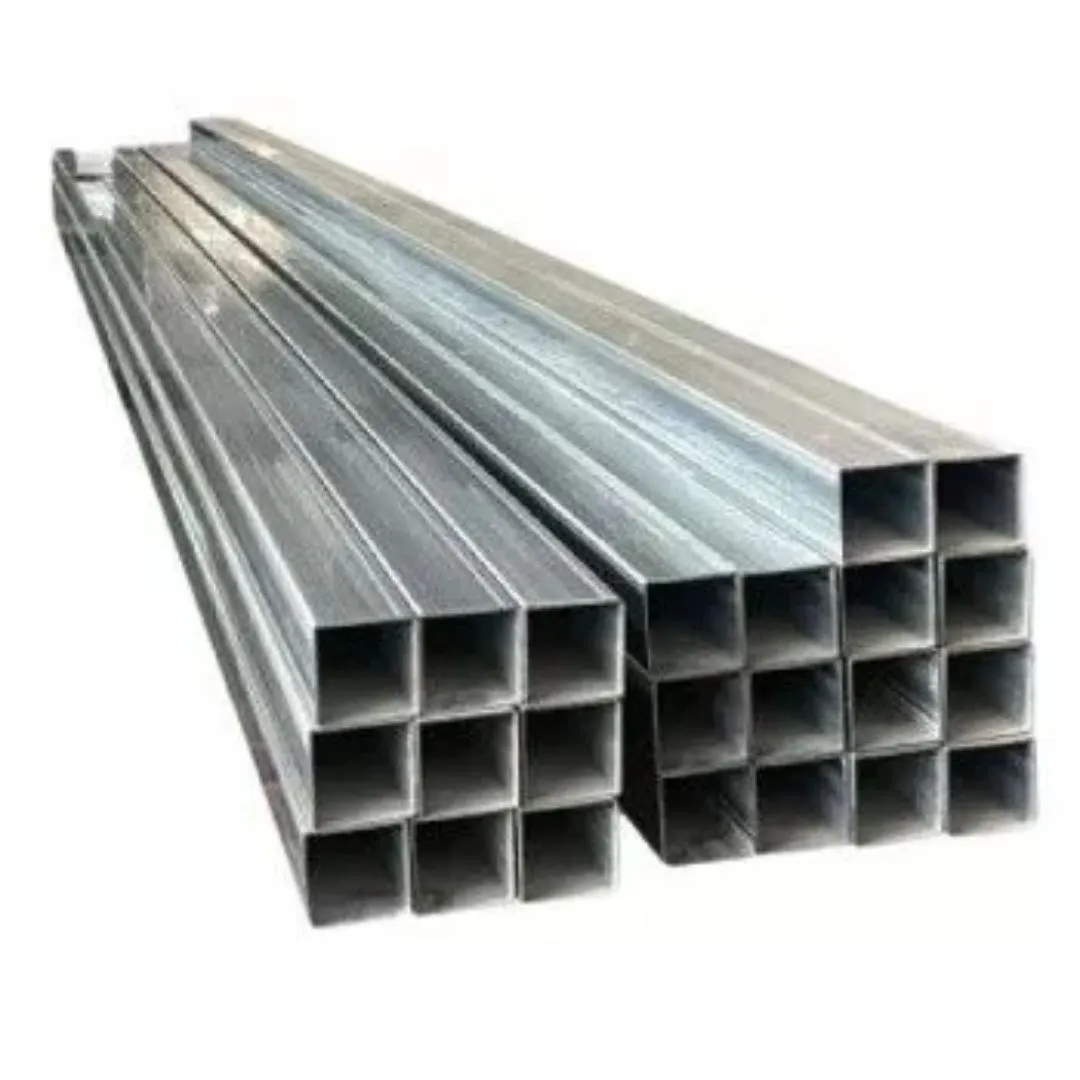
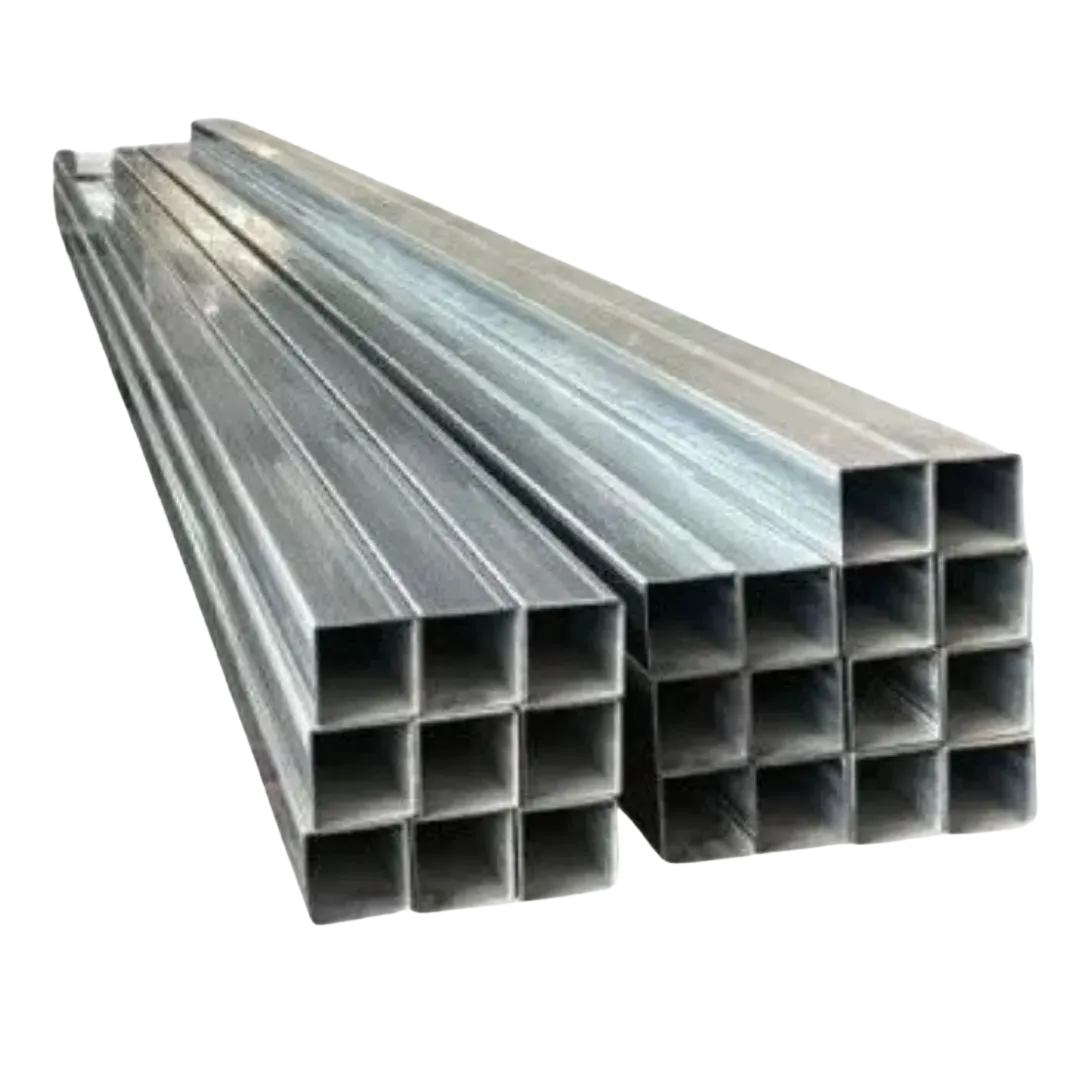
card page product photos updated

diff --git a/app/checkout/page.js b/app/checkout/page.js
@@ -24,7 +24,7 @@ export default function Cart() {
             <h1 style={{ fontFamily: 'var(--font-head)', fontWeight: 800, fontSize: '2rem', color: 'var(--ink)', letterSpacing: '-0.02em', marginBottom: '0.5rem' }}>Your Cart</h1>
             <p style={{ color: 'var(--muted)', fontSize: '0.9rem', marginBottom: '2rem' }}>{items.length} item{items.length !== 1 ? 's' : ''}</p>
 
-            {/* Steps (CSS handled scrolling natively) */}
+            {/* Steps */}
             <div className="steps" style={{ marginBottom: '2.5rem' }}>
               <div className="step active"><div className="step-num">1</div>Cart</div>
               <div className="step-line"/>
@@ -44,28 +44,52 @@ export default function Cart() {
               </div>
             ) : (
               <>
-                {/* DESKTOP VIEW (100% Original layouts and columns unchanged) */}
+                {/* DESKTOP VIEW */}
                 <div className="desktop-only" style={{ display: 'grid', gridTemplateColumns: '1fr 340px', gap: '2rem', alignItems: 'start' }}>
                   <div>
-                    {items.map(item => (
-                      <div key={item.key} style={{ background: 'white', borderRadius: 12, border: '1px solid var(--border-light)', padding: '1.25rem 1.5rem', marginBottom: '0.75rem', display: 'flex', alignItems: 'center', gap: '1.25rem', flexWrap: 'wrap' }}>
-                        <div style={{ width: 56, height: 56, background: 'var(--surface)', borderRadius: 10, display: 'flex', alignItems: 'center', justifyContent: 'center', fontSize: '1.75rem', flexShrink: 0 }}>📡</div>
-                        <div style={{ flex: 1, minWidth: 0 }}>
-                          <div style={{ fontWeight: 700, fontSize: '0.9rem', color: 'var(--ink)', marginBottom: '0.15rem' }}>{item.name}</div>
-                          {item.variantName && <div style={{ fontSize: '0.78rem', color: 'var(--muted)', marginBottom: '0.15rem' }}>{item.variantName}</div>}
-                          <div style={{ fontSize: '0.72rem', color: 'var(--light-text)' }}>{item.weight}g each</div>
-                        </div>
-                        <div style={{ display: 'flex', alignItems: 'center', gap: '1rem', flexWrap: 'wrap' }}>
-                          <div style={{ display: 'flex', alignItems: 'center', border: '1px solid var(--border-light)', borderRadius: 8, overflow: 'hidden' }}>
-                            <button onClick={() => updateQty(item.key, item.qty - 1)} style={{ width: 32, height: 32, cursor: 'pointer', border: 'none', background: 'var(--bg)', fontSize: '1rem', color: 'var(--slate)' }}>−</button>
-                            <div style={{ width: 36, textAlign: 'center', fontWeight: 700, fontSize: '0.875rem' }}>{item.qty}</div>
-                            <button onClick={() => updateQty(item.key, item.qty + 1)} style={{ width: 32, height: 32, cursor: 'pointer', border: 'none', background: 'var(--bg)', fontSize: '1rem', color: 'var(--slate)' }}>+</button>
+                    {items.map(item => {
+                      // ── 🌟 SMART AUTOMATIC SLUG RESOURCING ENGINE ──
+                      const variantId = item.variantId || item.id || '';
+                      const derivedSlug = item.productSlug || item.slug || (variantId.includes('-') ? variantId.split('-').slice(0, -1).join('-') : 'antenna');
+
+                      return (
+                        <div key={item.key} style={{ background: 'white', borderRadius: 12, border: '1px solid var(--border-light)', padding: '1.25rem 1.5rem', marginBottom: '0.75rem', display: 'flex', alignItems: 'center', gap: '1.25rem', flexWrap: 'wrap' }}>
+                          
+                          {/* DYNAMIC VIEWPORT MAPPING */}
+                          <div style={{ width: 56, height: 56, background: 'var(--surface)', borderRadius: 10, display: 'flex', alignItems: 'center', justifyContent: 'center', flexShrink: 0, overflow: 'hidden' }}>
+                            <img 
+                              src={`/products/${derivedSlug}/${variantId}-1.webp`}
+                              alt={item.name}
+                              style={{ width: '100%', height: '100%', objectFit: 'contain', padding: '4px' }}
+                              onError={(e) => { 
+                                if (!e.target.dataset.triedSpare) {
+                                  e.target.dataset.triedSpare = 'true';
+                                  // Fallback check path routing straight into your /spares asset folder
+                                  e.target.src = `/spares/${item.slug || item.productId || variantId}.webp`;
+                                } else {
+                                  e.target.src = '/antenna.webp';
+                                }
+                              }}
+                            />
                           </div>
-                          <div style={{ fontFamily: 'var(--font-head)', fontWeight: 800, fontSize: '1rem', color: 'var(--green)', whiteSpace: 'nowrap' }}>{formatLKR(item.price * item.qty)}</div>
-                          <button onClick={() => removeItem(item.key)} style={{ color: '#EF4444', fontSize: '0.78rem', cursor: 'pointer', padding: '0.25rem' }}>Remove</button>
+
+                          <div style={{ flex: 1, minWidth: 0 }}>
+                            <div style={{ fontWeight: 700, fontSize: '0.9rem', color: 'var(--ink)', marginBottom: '0.15rem' }}>{item.name}</div>
+                            {item.variantName && <div style={{ fontSize: '0.78rem', color: 'var(--muted)', marginBottom: '0.15rem' }}>{item.variantName}</div>}
+                            <div style={{ fontSize: '0.72rem', color: 'var(--light-text)' }}>{item.weight}g each</div>
+                          </div>
+                          <div style={{ display: 'flex', alignItems: 'center', gap: '1rem', flexWrap: 'wrap' }}>
+                            <div style={{ display: 'flex', alignItems: 'center', border: '1px solid var(--border-light)', borderRadius: 8, overflow: 'hidden' }}>
+                              <button onClick={() => updateQty(item.key, item.qty - 1)} style={{ width: 32, height: 32, cursor: 'pointer', border: 'none', background: 'var(--bg)', fontSize: '1rem', color: 'var(--slate)' }}>−</button>
+                              <div style={{ width: 36, textAlign: 'center', fontWeight: 700, fontSize: '0.875rem' }}>{item.qty}</div>
+                              <button onClick={() => updateQty(item.key, item.qty + 1)} style={{ width: 32, height: 32, cursor: 'pointer', border: 'none', background: 'var(--bg)', fontSize: '1rem', color: 'var(--slate)' }}>+</button>
+                            </div>
+                            <div style={{ fontFamily: 'var(--font-head)', fontWeight: 800, fontSize: '1rem', color: 'var(--green)', whiteSpace: 'nowrap' }}>{formatLKR(item.price * item.qty)}</div>
+                            <button onClick={() => removeItem(item.key)} style={{ color: '#EF4444', fontSize: '0.78rem', cursor: 'pointer', padding: '0.25rem' }}>Remove</button>
+                          </div>
                         </div>
-                      </div>
-                    ))}
+                      )
+                    })}
                     <Link href="/products" style={{ fontSize: '0.85rem', color: 'var(--green)', fontWeight: 600, display: 'inline-flex', alignItems: 'center', gap: '0.3rem', marginTop: '0.5rem' }}>
                       &larr; Continue Shopping
                     </Link>
@@ -97,37 +121,60 @@ export default function Cart() {
                   </div>
                 </div>
 
-                {/* MOBILE VIEW (Stacked card layouts) */}
+                {/* MOBILE VIEW */}
                 <div className="mobile-only" style={{ display: 'flex', flexDirection: 'column', gap: '1.5rem' }}>
                   {/* Items List */}
                   <div style={{ display: 'flex', flexDirection: 'column', gap: '0.75rem' }}>
-                    {items.map(item => (
-                      <div key={item.key} style={{ background: 'white', borderRadius: 12, border: '1px solid var(--border-light)', padding: '1rem' }}>
-                        {/* Upper Product Meta Row */}
-                        <div style={{ display: 'flex', gap: '0.75rem', alignItems: 'center', marginBottom: '1rem' }}>
-                          <div style={{ width: 44, height: 44, background: 'var(--surface)', borderRadius: 8, display: 'flex', alignItems: 'center', justifyContent: 'center', fontSize: '1.25rem', flexShrink: 0 }}>📡</div>
-                          <div style={{ flex: 1, minWidth: 0 }}>
-                            <div style={{ fontWeight: 700, fontSize: '0.875rem', color: 'var(--ink)', lineHeight: 1.3 }}>{item.name}</div>
-                            {item.variantName && <div style={{ fontSize: '0.75rem', color: 'var(--muted)', marginTop: '0.1rem' }}>{item.variantName}</div>}
-                          </div>
-                          <button onClick={() => removeItem(item.key)} style={{ color: '#EF4444', fontSize: '0.75rem', padding: '0.25rem', background: 'none', border: 'none' }}>
-                            Remove
-                          </button>
-                        </div>
+                    {items.map(item => {
+                      // ── 🌟 SMART AUTOMATIC SLUG RESOURCING ENGINE ──
+                      const variantId = item.variantId || item.id || '';
+                      const derivedSlug = item.productSlug || item.slug || (variantId.includes('-') ? variantId.split('-').slice(0, -1).join('-') : 'antenna');
 
-                        {/* Lower Interaction Row */}
-                        <div style={{ display: 'flex', alignItems: 'center', justifyContent: 'space-between', borderTop: '1px solid rgba(0,0,0,0.04)', paddingTop: '0.75rem' }}>
-                          <div style={{ display: 'flex', alignItems: 'center', border: '1px solid var(--border-light)', borderRadius: 6, overflow: 'hidden', background: 'white' }}>
-                            <button onClick={() => updateQty(item.key, item.qty - 1)} style={{ width: 28, height: 28, background: 'var(--bg)', border: 'none' }}>−</button>
-                            <div style={{ width: 32, textAlign: 'center', fontWeight: 700, fontSize: '0.8rem' }}>{item.qty}</div>
-                            <button onClick={() => updateQty(item.key, item.qty + 1)} style={{ width: 28, height: 28, background: 'var(--bg)', border: 'none' }}>+</button>
+                      return (
+                        <div key={item.key} style={{ background: 'white', borderRadius: 12, border: '1px solid var(--border-light)', padding: '1rem' }}>
+                          {/* Upper Product Meta Row */}
+                          <div style={{ display: 'flex', gap: '0.75rem', alignItems: 'center', marginBottom: '1rem' }}>
+                            
+                            {/* DYNAMIC VIEWPORT MAPPING */}
+                            <div style={{ width: 44, height: 44, background: 'var(--surface)', borderRadius: 8, display: 'flex', alignItems: 'center', justifyContent: 'center', flexShrink: 0, overflow: 'hidden' }}>
+                              <img 
+                                src={`/products/${derivedSlug}/${variantId}-1.webp`}
+                                alt={item.name}
+                                style={{ width: '100%', height: '100%', objectFit: 'contain', padding: '4px' }}
+                                onError={(e) => { 
+                                  if (!e.target.dataset.triedSpare) {
+                                    e.target.dataset.triedSpare = 'true';
+                                    e.target.src = `/spares/${item.slug || item.productId || variantId}.webp`;
+                                  } else {
+                                    e.target.src = '/antenna.webp';
+                                  }
+                                }}
+                              />
+                            </div>
+
+                            <div style={{ flex: 1, minWidth: 0 }}>
+                              <div style={{ fontWeight: 700, fontSize: '0.875rem', color: 'var(--ink)', lineHeight: 1.3 }}>{item.name}</div>
+                              {item.variantName && <div style={{ fontSize: '0.75rem', color: 'var(--muted)', marginTop: '0.1rem' }}>{item.variantName}</div>}
+                            </div>
+                            <button onClick={() => removeItem(item.key)} style={{ color: '#EF4444', fontSize: '0.75rem', padding: '0.25rem', background: 'none', border: 'none' }}>
+                              Remove
+                            </button>
                           </div>
-                          <div style={{ fontFamily: 'var(--font-head)', fontWeight: 800, fontSize: '0.95rem', color: 'var(--green)' }}>
-                            {formatLKR(item.price * item.qty)}
+
+                          {/* Lower Interaction Row */}
+                          <div style={{ display: 'flex', alignItems: 'center', justifyContent: 'space-between', borderTop: '1px solid rgba(0,0,0,0.04)', paddingTop: '0.75rem' }}>
+                            <div style={{ display: 'flex', alignItems: 'center', border: '1px solid var(--border-light)', borderRadius: 6, overflow: 'hidden', background: 'white' }}>
+                              <button onClick={() => updateQty(item.key, item.qty - 1)} style={{ width: 28, height: 28, background: 'var(--bg)', border: 'none' }}>−</button>
+                              <div style={{ width: 32, textAlign: 'center', fontWeight: 700, fontSize: '0.8rem' }}>{item.qty}</div>
+                              <button onClick={() => updateQty(item.key, item.qty + 1)} style={{ width: 28, height: 28, background: 'var(--bg)', border: 'none' }}>+</button>
+                            </div>
+                            <div style={{ fontFamily: 'var(--font-head)', fontWeight: 800, fontSize: '0.95rem', color: 'var(--green)' }}>
+                              {formatLKR(item.price * item.qty)}
+                            </div>
                           </div>
                         </div>
-                      </div>
-                    ))}
+                      )
+                    })}
                     
                     <Link href="/products" style={{ fontSize: '0.82rem', color: 'var(--green)', fontWeight: 600, textAlign: 'center', marginTop: '0.25rem' }}>
                       &larr; Continue Shopping
